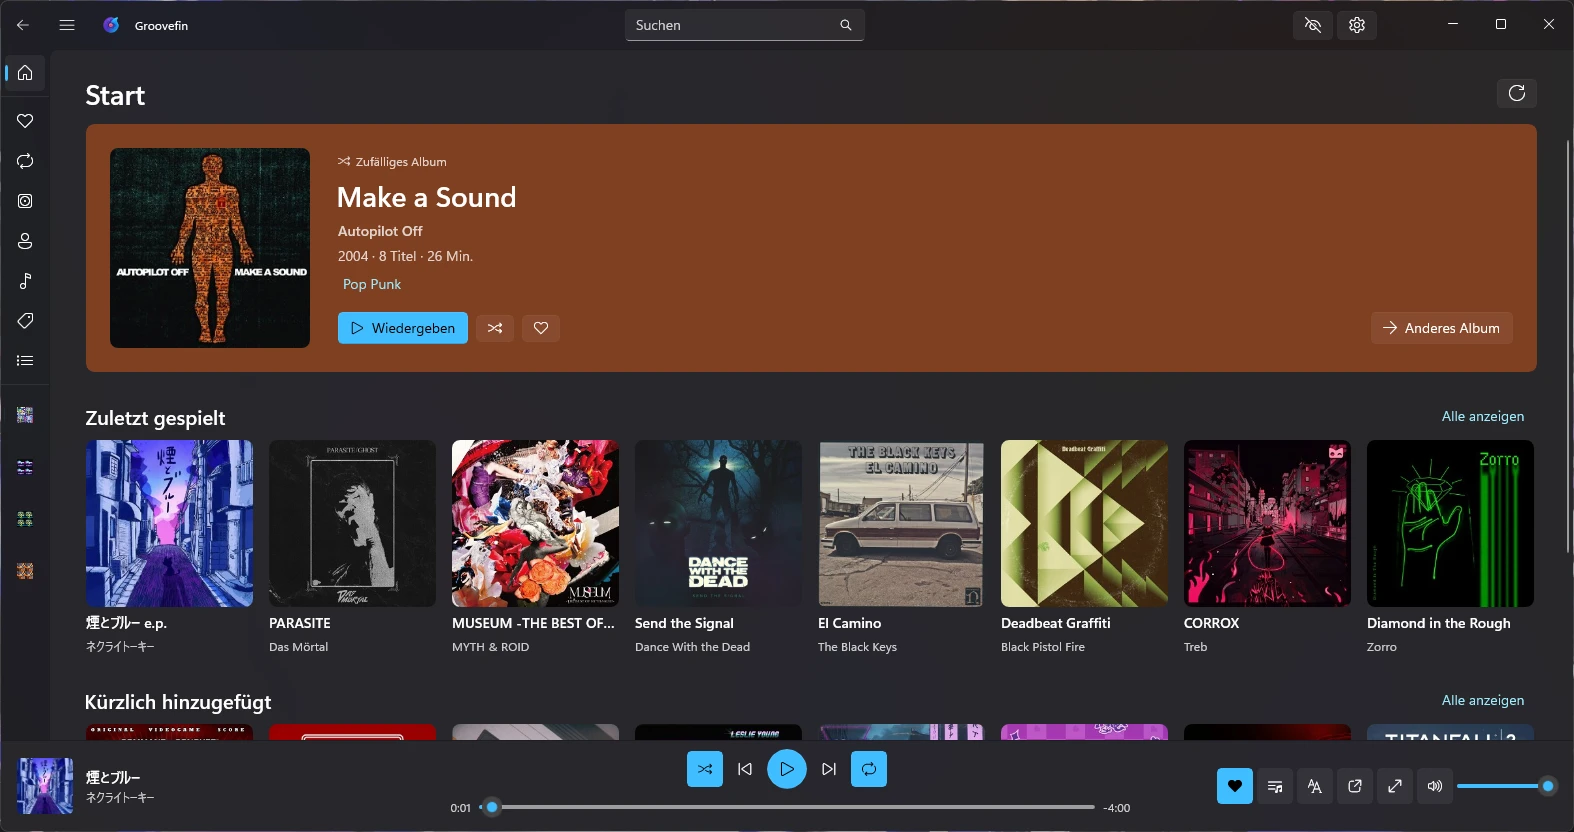
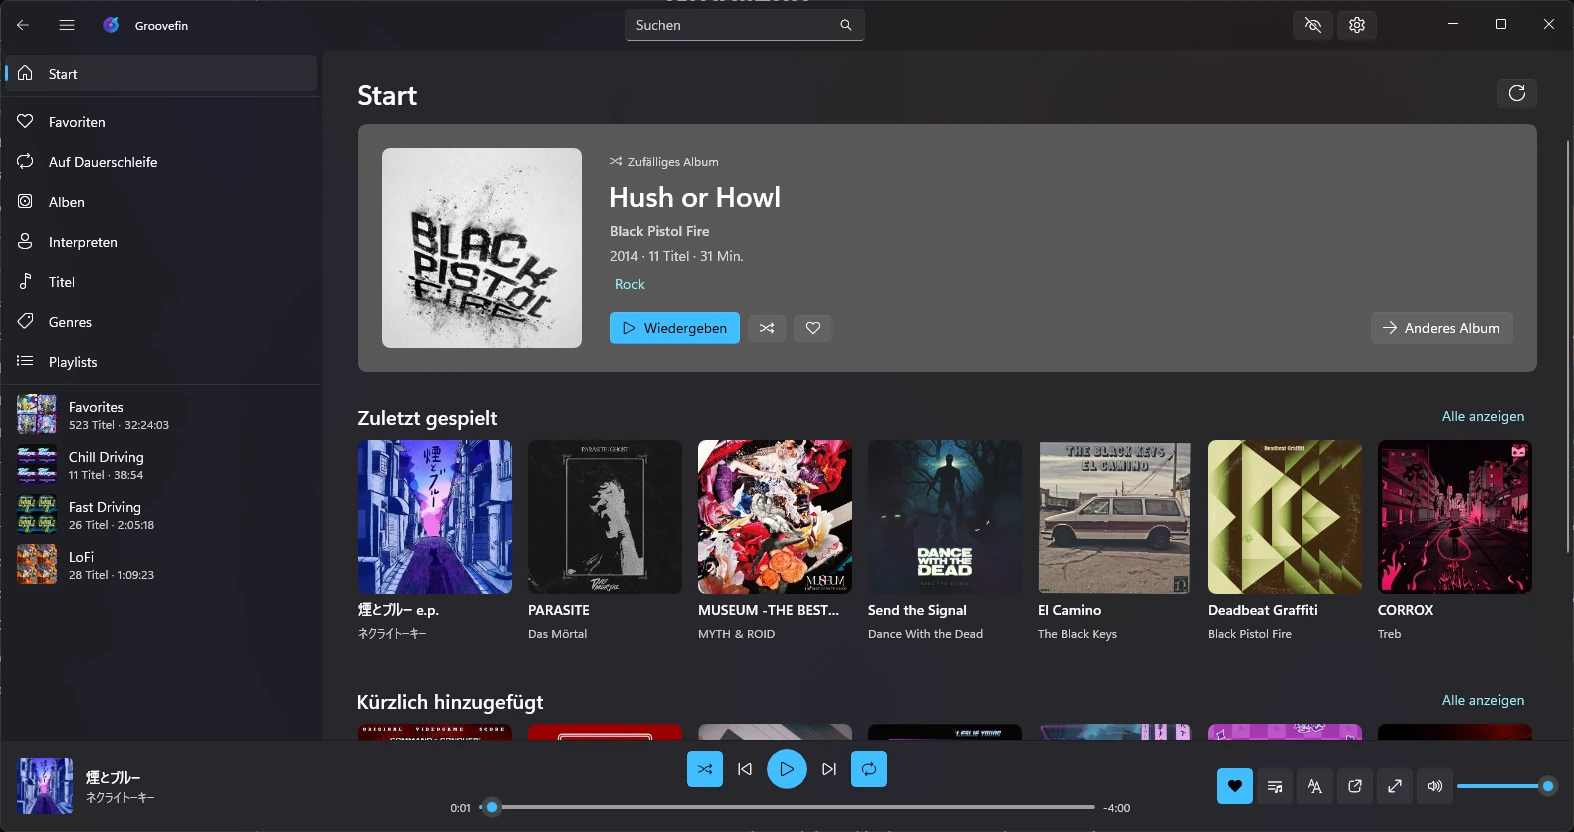
docs: rewrite the README for people who use the app (#381)
* docs: rewrite the README for people who use the app

A plain intro, one short line per feature, then install and first
start. Building from source moves to the end with the tech stack. The
outdated Screenshots placeholder goes, since the README has one now.

Fixes #380

* Revise README for improved clarity and structure

Updated the README to enhance clarity and conciseness of features and installation instructions.

* docs: show the navigation pane in the README's screenshot

The new screenshot of the start page has the navigation pane open, with
the sections and the favourite playlists.

Refs #380

---------

diff --git a/README.md b/README.md
@@ -1,85 +1,57 @@
 # Groovefin
 
-A native [Jellyfin](https://jellyfin.org) music player for Windows 11, built with C#, .NET 10 and
-WinUI 3.
+A native Jellyfin music player for Windows 11, built with C#, .NET 10 and WinUI 3.
 
 [![CI](https://github.com/sysmike/groovefin/actions/workflows/ci.yml/badge.svg)](https://github.com/sysmike/groovefin/actions/workflows/ci.yml)
 [![CodeQL](https://github.com/sysmike/groovefin/actions/workflows/codeql.yml/badge.svg)](https://github.com/sysmike/groovefin/actions/workflows/codeql.yml)
 [![License: MIT](https://img.shields.io/badge/license-MIT-blue.svg)](LICENSE)
 
-![Groovefin's start page: a random album on a colour taken from its cover, then rows of recently played and recently added albums](assets/screenshots/home.webp)
+![Groovefin's start page with the navigation pane open: a random album on a colour taken from its cover, then rows of recently played and recently added albums](assets/screenshots/home.webp)
 
 ## Features
 
 **Library**
-- Home with a random album on a colour taken from its cover, then rows of recently played and recently added albums, as many as fit the window, each with "Show all".
-- Albums, artists, genres, playlists and folders, in a grid or a list, with sorting and filters.
-- A songs table with sortable, resizable and movable columns.
-- Global search with live suggestions, grouped by artists, albums, tracks and playlists.
-- Favourites, playlists (create, rename, reorder, add by drag and drop, with a question before adding songs a playlist already has and before removing songs; favourite playlists in the navigation pane, in your own order and with a play button on their covers) and instant mixes.
+- Start page with recommendations
+- Albums, artists, genres, playlists and folders, with sorting and filters
+- Search
+- Favourites, playlists and instant mixes
 
 **Playback**
-- Gapless playback, volume normalization from the server's loudness data (track or album), and
-  stream quality limits for the home network and remote servers.
-- A 10-band equalizer with presets and a preamp, heard as you move the sliders.
-- Optional crossfade of up to 12 seconds between tracks; tracks of the same album stay gapless.
-- A queue panel with drag and drop, shuffle and repeat.
-- Synced lyrics that follow the song (LRC), with click-to-seek and an offset.
-- Resume where you left off: the queue and position come back after a restart.
-- Downloads of your favourite songs, albums and artists and all playlists, kept in sync on their own, as the
-  original files or AAC, with a question before a large download (Settings → Downloads). Downloaded songs play
-  from their files. Offline, Favourites, Playlists and the pages of albums and artists show what is downloaded,
-  with its covers, and the songs that are not downloaded are skipped. Plays while offline reach the server's play
-  counts once it is back.
+- Gapless playback and crossfade
+- Even volume across songs and albums
+- Stream quality setting for slow connections
+- A 10-band equalizer with presets
+- Synced lyrics
+- Offline mode
 
 **Windows integration**
-- Media keys and the Windows media flyout.
-- Taskbar thumbnail buttons and playback progress on the taskbar button.
-- An optional icon in the notification area, with playback controls.
-- A full-screen player with a blurred cover backdrop, and an always-on-top mini player.
-- Keyboard shortcuts for everything you do often, listed in Settings, where you can give each one other keys.
-  Settings is the gear button in the title bar, or Ctrl+,.
-- The mouse's back and forward buttons (or Alt+Left and Alt+Right) move through the pages you visited.
-- An optional Discord status ("Listening to <artist>") with title, artist and progress, through
-  the Discord app on the PC: no keys, and nothing goes to the internet from Groovefin. The artist
-  links to Last.fm, the album to MusicBrainz when your server knows its ID.
-- A privacy mode (the button beside Settings in the title bar, Ctrl+Shift+P or the tray menu): no plays are
-  reported to your server and Discord shows nothing, until you turn it off or restart Groovefin.
-
-**Look and feel**
-- Native WinUI 3 with Mica: light, dark and high contrast, the Windows accent colour (or neutral
-  grey), and a compact density.
-- Works with the keyboard and Narrator.
-- English and German.
-
-## Screenshots
-
-_Screenshots in light and dark follow with the first release (#57)._
+- Media keys, Windows media controls and taskbar buttons
+- Full-screen player and mini player
+- Keyboard shortcuts
+- Notification icon
+- A privacy mode that stops reporting what you play
 
 ## Install
 
-Download the latest release from the [Releases page](https://github.com/sysmike/groovefin/releases).
+You need Windows 11 (21H2 or later) and a [Jellyfin](https://jellyfin.org) server. Lyrics need
+Jellyfin 10.9 or later.
 
-| File | For |
-|---|---|
-| `Groovefin_<version>.msixbundle` | Most people: installs the right version for your PC (x64 or ARM64). |
-| `Groovefin_<version>_x64.msix`, `…_ARM64.msix` | One architecture only. |
-| `Groovefin_<version>_<arch>_unpackaged.zip` | Portable: extract anywhere and run `Groovefin.exe`. Nothing to install. On start it adds itself to your Start menu, so Windows can show its name in the media controls. |
+Download the latest release from the [Releases page](https://github.com/sysmike/groovefin/releases):
 
-- **Requirements:** Windows 11 (version 21H2 or later) on x64 or ARM64, and a
-  [Jellyfin](https://jellyfin.org) server. Lyrics need Jellyfin 10.9 or later.
-- The MSIX packages need the Windows App Runtime from Microsoft. If the installer reports that it
-  is missing, use the portable ZIP, which brings everything it needs.
-- If a release is marked as unsigned, install the MSIX with Developer Mode on
-  (Settings → System → For developers) and `Add-AppxPackage -AllowUnsigned .\Groovefin_*.msix`, or
-  use the ZIP.
-- Check a download with its line in `SHA256SUMS.txt`, or with
+<details>
+<summary>Unsigned releases and checking a download</summary>
+
+- If a release is marked as unsigned, turn on Developer Mode (Settings → System → For developers) and
+  install it in PowerShell with `Add-AppxPackage -AllowUnsigned .\Groovefin_*.msix`, or use the ZIP.
+- Check a download against its line in `SHA256SUMS.txt`, or with
   `gh attestation verify <file> --repo sysmike/groovefin`.
 
-On first start, enter your server address (for example `https://192.168.1.10:8920`), then sign in
-with your Jellyfin user, or with Quick Connect. Use the server's `https://` address if it has one:
-over plain `http://`, your password and access token cross the network unencrypted, and Groovefin
-asks before it sends them.
+</details>
+
+## Getting started
+
+1. Enter your server's address, for example `https://192.168.1.10:8920`.
+2. Sign in with your Jellyfin user, or with Quick Connect.
 
 ## Build from source
 
@@ -98,8 +70,8 @@ dotnet test --solution Groovefin.CrossPlatform.slnf -c Release
 To run the app, open `Groovefin.sln` in Visual Studio, set `Groovefin.App` as the startup project
 and press F5. Use `-p:Platform=ARM64` on ARM PCs.
 
-The core libraries and their tests also build on Linux and macOS
-(`dotnet test --solution Groovefin.CrossPlatform.slnf`).
+Groovefin is built with C#, .NET 10 and WinUI 3. The core libraries and their tests also build on
+Linux and macOS (`dotnet test --solution Groovefin.CrossPlatform.slnf`).
 
 - [Architecture](docs/architecture.md): projects, layers and conventions.
 - [Contributing](docs/contributing.md): issues, branches, commits and the definition of done.
